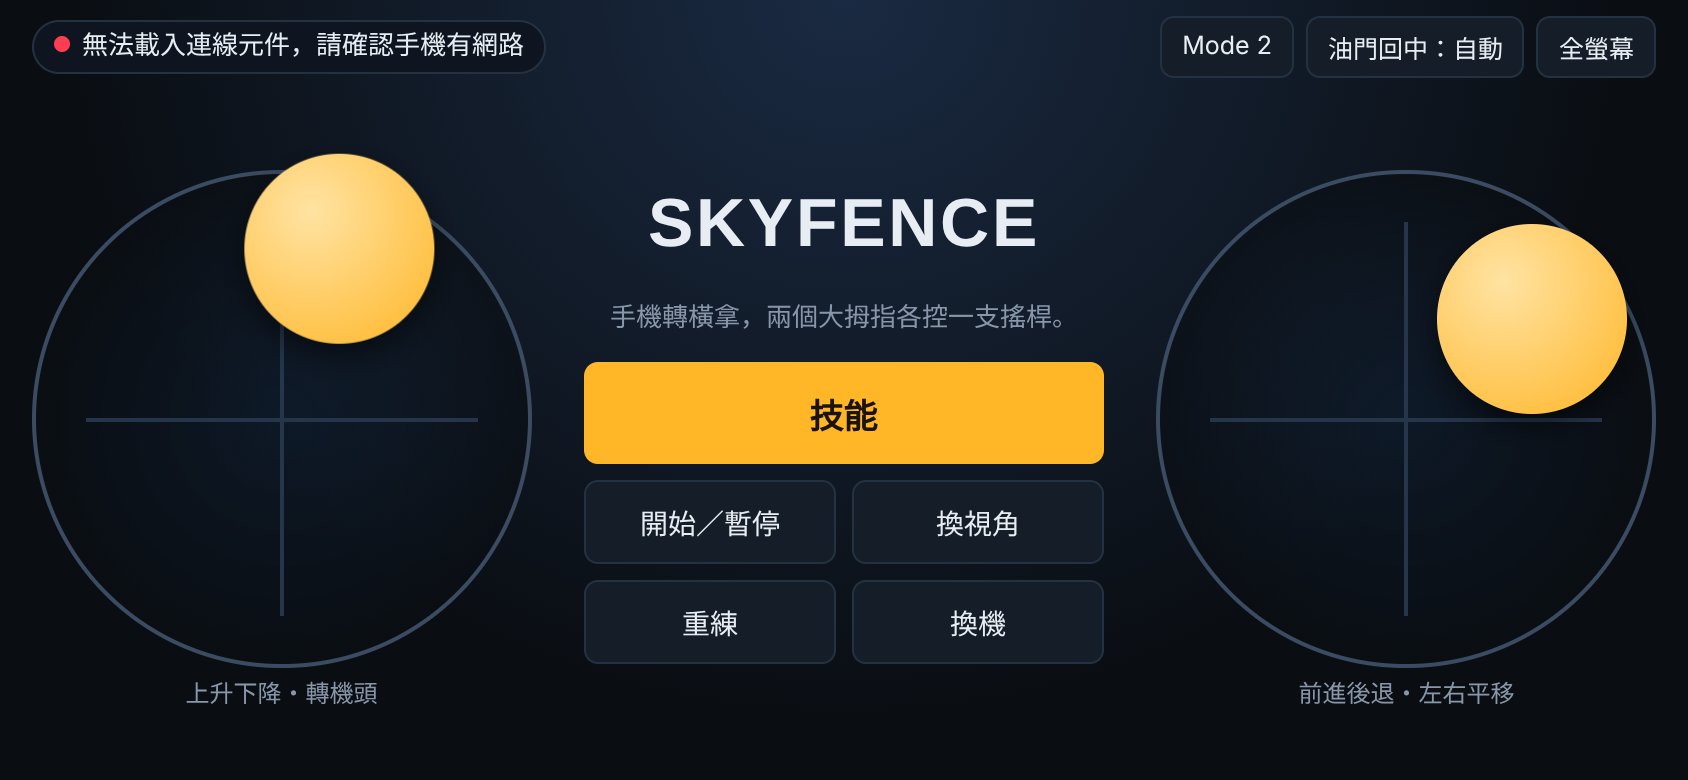
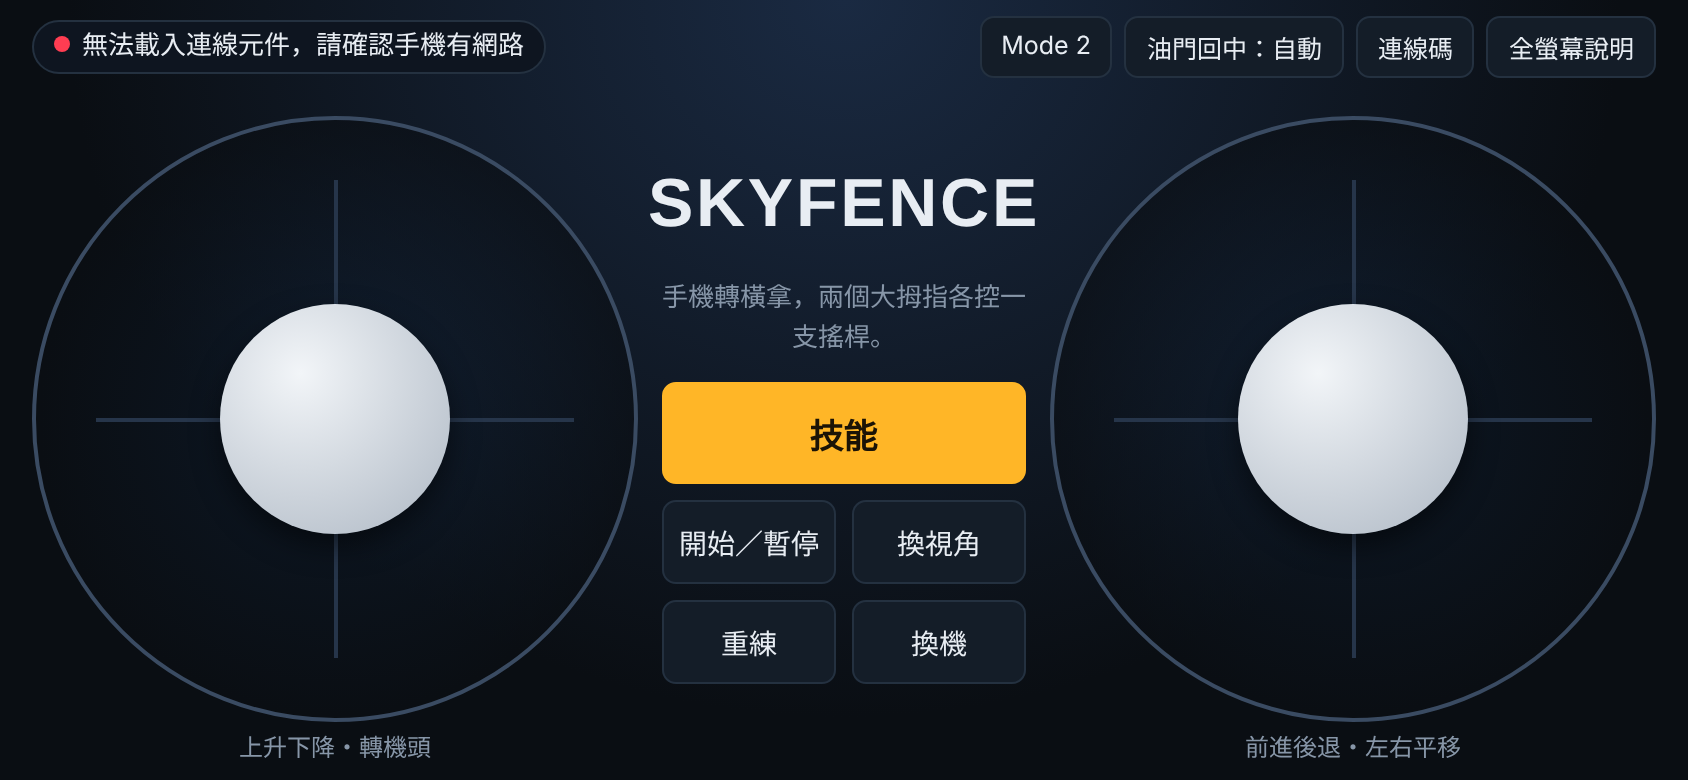
Phone pad: fix reconnect loop, home-screen web app for fullscreen, fit sticks to visible area
Claude-Session: https://claude.ai/code/session_011EXM6eb5eKn6DiTazJdWiT

diff --git a/index.html b/index.html
@@ -8,7 +8,28 @@
 <link rel="preconnect" href="https://fonts.googleapis.com">
 <link rel="preconnect" href="https://fonts.gstatic.com" crossorigin>
 <link rel="stylesheet" href="https://fonts.googleapis.com/css2?family=Saira+Condensed:wght@500;700;800&family=Noto+Sans+TC:wght@400;500;700&family=JetBrains+Mono:wght@500&display=swap">
-<script>if (/[?&]pad=/.test(location.search)) { document.documentElement.classList.add('padmode'); window.__PADMODE = true; }</script>
+<script>
+(function () {
+  var standalone = window.navigator.standalone === true || (window.matchMedia && matchMedia('(display-mode: standalone), (display-mode: fullscreen)').matches);
+  var q = location.search;
+  // a home-screen launch of the controller may arrive without ?pad, so remember that this install is the pad
+  try { if (/[?&]pad=/.test(q)) localStorage.setItem('sfpad-isPad', '1'); } catch (e) {}
+  var isPad = /[?&]pad=/.test(q);
+  try { if (!isPad && standalone && localStorage.getItem('sfpad-isPad') === '1') isPad = true; } catch (e) {}
+  if (!isPad) return;
+  document.documentElement.classList.add('padmode'); window.__PADMODE = true; window.__STANDALONE = standalone;
+  var add = function (tag, attrs) { var el = document.createElement(tag); for (var k in attrs) el.setAttribute(k, attrs[k]); document.head.appendChild(el); };
+  add('meta', { name:'apple-mobile-web-app-capable', content:'yes' });
+  add('meta', { name:'mobile-web-app-capable', content:'yes' });
+  add('meta', { name:'apple-mobile-web-app-status-bar-style', content:'black-translucent' });
+  add('meta', { name:'apple-mobile-web-app-title', content:'Skyfence 遙控' });
+  add('meta', { name:'theme-color', content:'#0a0e13' });
+  if (/^https?:$/.test(location.protocol)) {
+    add('link', { rel:'apple-touch-icon', href:'art/pad-icon-180.png' });
+    add('link', { rel:'manifest', href:'pad.webmanifest' });
+  }
+})();
+</script>
 <style>
 /* Layout: full-bleed 3D arena; HUD pinned to the four corners like a broadcast overlay; setup is a two-column sheet laid over the dimmed arena. */
 :root{
@@ -312,7 +333,7 @@ details li{margin-bottom:4px}
 .pr-phone{background:none;border:1px dashed #4a5d77;color:#c3cdd9;font-size:13px;padding:6px 12px}
 
 /* ---------- phone pad (controller page) ---------- */
-html.padmode,html.padmode body{height:100%;overflow:hidden;overscroll-behavior:none}
+html.padmode,html.padmode body{height:100%;height:100dvh;overflow:hidden;overscroll-behavior:none;position:fixed;inset:0;width:100%}
 html.padmode body > *:not(#pad):not(script){display:none!important}
 #pad{position:fixed;inset:0;display:grid;grid-template-rows:auto minmax(0,1fr);background:radial-gradient(ellipse at 50% 0%,#1a2a42,#0a0e13 65%);color:var(--text);
   touch-action:none;user-select:none;-webkit-user-select:none;-webkit-touch-callout:none;
@@ -332,7 +353,7 @@ html.padmode body > *:not(#pad):not(script){display:none!important}
 .pd-btns button{padding:10px 6px;font-size:14px;touch-action:none}
 .pd-btns button.big{grid-column:1/-1;background:var(--amber);border-color:var(--amber);color:#1b1306;font-weight:800;font-size:17px;padding:12px}
 .pd-btns button.hit{transform:scale(.95);filter:brightness(1.3)}
-.stick{position:relative;width:min(40vw,64vh);aspect-ratio:1;touch-action:none}
+.stick{position:relative;width:var(--stick,min(40vw,60dvh));height:var(--stick,min(40vw,60dvh));touch-action:none}
 #stL{grid-area:L} #stR{grid-area:R}
 .stick .ring{position:absolute;inset:0;border-radius:50%;border:2px solid #3a4b62;background:radial-gradient(circle,rgba(46,139,255,.08),rgba(10,14,19,.6) 70%)}
 .stick .ring::before,.stick .ring::after{content:"";position:absolute;background:#26354a}
@@ -341,12 +362,20 @@ html.padmode body > *:not(#pad):not(script){display:none!important}
 .stick .knob{position:absolute;left:50%;top:50%;width:38%;height:38%;margin:-19% 0 0 -19%;border-radius:50%;background:radial-gradient(circle at 35% 30%,#f2f5f8,#aeb8c4);box-shadow:0 6px 14px rgba(0,0,0,.5);will-change:transform}
 .stick.on .knob{background:radial-gradient(circle at 35% 30%,#ffe3a3,#ffb627)}
 .stick .lab{position:absolute;left:0;right:0;bottom:-22px;text-align:center;font-size:12px;color:var(--muted);white-space:nowrap}
+.pd-tip{position:fixed;left:50%;bottom:max(12px,env(safe-area-inset-bottom,0px));transform:translateX(-50%);z-index:3;width:min(560px,calc(100% - 32px));background:#141f2e;border:1px solid var(--amber);border-radius:12px;padding:10px 12px;display:flex;gap:10px;align-items:flex-start;font-size:13.5px;line-height:1.5;box-shadow:0 10px 30px rgba(0,0,0,.6)}
+.pd-tip b{color:var(--amber)}
+.pd-tip button{flex:none;padding:3px 10px;font-size:13px}
 .pd-code{position:fixed;inset:0;display:grid;place-items:center;background:#0a0e13;padding:24px}
 .pd-code > div{display:flex;flex-direction:column;gap:12px;align-items:center;text-align:center;max-width:340px}
 .pd-code input{font-family:var(--f-mono);font-size:32px;letter-spacing:.2em;text-align:center;width:9ch;padding:6px;border-radius:8px;border:1px solid var(--line);background:#0e1520;color:var(--text)}
+@media (max-height:360px) and (orientation:landscape){
+  .pd-msg{display:none} .pd-info{font-size:20px}
+  .pd-mid{gap:6px} .pd-btns{gap:5px} .pd-btns button{padding:6px 4px;font-size:13px} .pd-btns button.big{padding:8px;font-size:15px}
+  .pd-top{gap:6px} .pd-tools button{padding:3px 8px;font-size:12px}
+}
 @media (orientation:portrait){
   .pd-main{grid-template-columns:1fr 1fr;grid-template-areas:"M M" "L R";align-content:space-evenly}
-  .stick{width:min(42vw,40vh);justify-self:center}
+  .stick{justify-self:center}
 }
 #err{position:fixed;inset:auto 16px 16px;color:#ffd27a}
 </style>
@@ -561,6 +590,7 @@ html.padmode body > *:not(#pad):not(script){display:none!important}
     <div class="pd-tools">
       <button id="pdMode" type="button">Mode 2</button>
       <button id="pdSpring" type="button">油門回中：自動</button>
+      <button id="pdCodeBtn" type="button">連線碼</button>
       <button id="pdFull" type="button">全螢幕</button>
     </div>
   </div>
@@ -579,6 +609,7 @@ html.padmode body > *:not(#pad):not(script){display:none!important}
     </div>
     <div class="stick" id="stR"><div class="ring"></div><div class="knob"></div><span class="lab" id="labR"></span></div>
   </div>
+  <div class="pd-tip" id="pdTip" hidden><div id="pdTipText"></div><button type="button" id="pdTipX">知道了</button></div>
   <div class="pd-code" id="pdCode" hidden><div>
     <div class="brand" style="font-size:40px">SKY<span>FENCE</span></div>
     <div>輸入電腦畫面上的 6 位數連線碼</div>
@@ -2737,6 +2768,7 @@ window.SFLINK = {
   const ST = { L:{ x:0, y:0, id:null }, R:{ x:0, y:0, id:null } };
   const counts = { skill:0, start:0, cam:0, retry:0, swap:0 };
   let peer = null, conn = null, code = (new URLSearchParams(location.search).get('pad') || '').replace(/\D/g, '').slice(0, 6);
+  if (!code) code = store.get('code', '');   // home-screen launch: reuse the last code
   let retryT = 0, seq = 0;
 
   const springOn = () => spring === 'on' || (spring === 'auto' && hostFlight === 'assist');
@@ -2765,17 +2797,38 @@ window.SFLINK = {
     el.addEventListener('pointerup', end); el.addEventListener('pointercancel', end); el.addEventListener('lostpointercapture', end);
     s.upd = upd; upd();
   }
+  // size both sticks to the space the browser actually leaves us (Safari bars, notches)
+  function fit() {
+    const main = document.querySelector('.pd-main'); if (!main) return;
+    const vw = window.visualViewport ? visualViewport.width : innerWidth, portrait = innerHeight > innerWidth;
+    const h = main.clientHeight - 26;
+    const size = portrait ? Math.min(vw * 0.42, h * 0.5) : Math.min(vw * 0.36, h);
+    pad.style.setProperty('--stick', Math.max(110, Math.floor(size)) + 'px');
+    ST.L.upd && ST.L.upd(); ST.R.upd && ST.R.upd();
+  }
   bindStick('L'); bindStick('R');
-  addEventListener('resize', () => { ST.L.upd(); ST.R.upd(); });
+  addEventListener('resize', fit); addEventListener('orientationchange', () => setTimeout(fit, 300));
+  if (window.visualViewport) visualViewport.addEventListener('resize', fit);
+  fit(); setTimeout(fit, 400);
   document.querySelectorAll('.pd-btns button').forEach(b => {
     b.addEventListener('pointerdown', e => { e.preventDefault(); counts[b.dataset.b]++; b.classList.add('hit'); setTimeout(() => b.classList.remove('hit'), 120); if (navigator.vibrate) navigator.vibrate(12); wake(); });
   });
   $('#pdMode').addEventListener('click', () => { mode = mode === '2' ? '1' : '2'; store.set('mode', mode); ST.L.y = ST.R.y = 0; ST.L.upd(); ST.R.upd(); labels(); });
   $('#pdSpring').addEventListener('click', () => { spring = spring === 'auto' ? 'on' : spring === 'on' ? 'off' : 'auto'; store.set('spring', spring); labels(); });
+  const isIOS = /iPhone|iPad|iPod/.test(navigator.userAgent) || (navigator.platform === 'MacIntel' && navigator.maxTouchPoints > 1);
+  const canFS = !!(document.documentElement.requestFullscreen || document.documentElement.webkitRequestFullscreen) && !isIOS;
+  function tip(html) { $('#pdTipText').innerHTML = html; $('#pdTip').hidden = false; }
+  const IOS_TIP = '<b>iPhone 要全螢幕：</b>點 Safari 的<b>分享</b>按鈕 → <b>加入主畫面</b>（打開「以網頁 App 開啟」），之後從主畫面的「Skyfence 遙控」圖示開啟，就沒有網址列，也會記住連線碼。';
+  $('#pdTipX').addEventListener('click', () => { $('#pdTip').hidden = true; store.set('tipSeen', '1'); setTimeout(fit, 50); });
+  if (window.__STANDALONE) $('#pdFull').hidden = true;
+  else if (isIOS) { $('#pdFull').textContent = '全螢幕說明'; if (store.get('tipSeen', '') !== '1') tip(IOS_TIP); }
   $('#pdFull').addEventListener('click', async () => {
-    try { await document.documentElement.requestFullscreen(); } catch (e) {}
+    if (!canFS) { tip(IOS_TIP); return; }
+    try { await (document.documentElement.requestFullscreen ? document.documentElement.requestFullscreen({ navigationUI:'hide' }) : document.documentElement.webkitRequestFullscreen()); } catch (e) {}
     try { await screen.orientation.lock('landscape'); } catch (e) {}
+    setTimeout(fit, 300);
   });
+  $('#pdCodeBtn').addEventListener('click', () => { $('#pdIn').value = code; $('#pdCode').hidden = false; $('#pdIn').focus(); });
   let wl = null;
   async function wake() { if (wl || !navigator.wakeLock) return; try { wl = await navigator.wakeLock.request('screen'); wl.addEventListener('release', () => wl = null); } catch (e) {} }
   labels();
@@ -2795,10 +2848,12 @@ window.SFLINK = {
       navigator.vibrate(m.k === 'good' ? [30, 40, 60] : m.k === 'bad' ? 200 : 25);
     }
   }
+  function retry(ms) { clearTimeout(retryT); retryT = setTimeout(connect, ms); }
   function connect() {
     clearTimeout(retryT);
     if (!/^\d{6}$/.test(code)) { $('#pdCode').hidden = false; status('尚未連線', 'bad'); return; }
     $('#pdCode').hidden = true;
+    if (conn && conn.open) return;
     status('連線中…（' + code + '）');
     SFLINK.loadPeer().then(() => {
       if (!peer || peer.destroyed) {
@@ -2806,30 +2861,37 @@ window.SFLINK = {
         peer.on('error', e => {
           if (e.type === 'peer-unavailable') status('找不到電腦：確認連線碼，或電腦網頁是否開著', 'bad');
           else status('連線失敗：' + (e.type || e.message || e), 'bad');
-          retryT = setTimeout(connect, 3000);
+          retry(3000);
         });
         peer.on('disconnected', () => { try { peer.reconnect(); } catch (_) {} });
       }
       const go = () => {
-        if (conn) { try { conn.close(); } catch (_) {} }
-        conn = peer.connect(SFLINK.PREFIX + code, { reliable:false, serialization:'json' });
-        conn.on('open', () => { status('已連線 ' + code, 'ok'); conn.send({ t:'hi', ua:navigator.userAgent.slice(0, 60) }); });
-        conn.on('data', onData);
-        conn.on('close', () => { status('連線中斷，重新連線…', 'bad'); retryT = setTimeout(connect, 2000); });
-        conn.on('error', () => {});
+        const old = conn; conn = null;
+        if (old) { old.removeAllListeners && old.removeAllListeners(); try { old.close(); } catch (_) {} }
+        const c = peer.connect(SFLINK.PREFIX + code, { reliable:false, serialization:'json' });
+        conn = c;
+        const guard = setTimeout(() => { if (conn === c && !c.open) { status('連線逾時，重試中…', 'bad'); retry(500); } }, 9000);
+        c.on('open', () => { if (conn !== c) return; clearTimeout(guard); store.set('code', code); status('已連線 ' + code, 'ok'); c.send({ t:'hi', ua:navigator.userAgent.slice(0, 60) }); });
+        c.on('data', d => { if (conn === c) onData(d); });
+        c.on('close', () => { if (conn !== c) return; clearTimeout(guard); status('連線中斷，重新連線…', 'bad'); retry(1500); });
+        c.on('error', () => {});
       };
       if (peer.open) go(); else peer.once('open', go);
-    }).catch(err => { status('無法載入連線元件，請確認手機有網路', 'bad'); retryT = setTimeout(connect, 4000); });
+    }).catch(err => { status('無法載入連線元件，請確認手機有網路', 'bad'); retry(4000); });
   }
   setInterval(() => {
     if (conn && conn.open) { try { conn.send({ t:'s', q:++seq, c:channels().map(v => Math.round(v * 1000) / 1000), n:counts }); } catch (_) {} }
   }, 33);
   $('#pdGo').addEventListener('click', () => {
     code = $('#pdIn').value.replace(/\D/g, '').slice(0, 6);
-    if (code.length === 6) { history.replaceState(null, '', location.pathname + '?pad=' + code); connect(); }
+    if (code.length === 6) {
+      history.replaceState(null, '', location.pathname + '?pad=' + code);
+      if (conn) { const old = conn; conn = null; old.removeAllListeners && old.removeAllListeners(); try { old.close(); } catch (_) {} }
+      connect();
+    }
   });
   $('#pdIn').addEventListener('keydown', e => { if (e.key === 'Enter') $('#pdGo').click(); });
-  document.addEventListener('visibilitychange', () => { if (!document.hidden && (!conn || !conn.open)) connect(); });
+  document.addEventListener('visibilitychange', () => { if (!document.hidden) { fit(); if (!conn || !conn.open) connect(); } });
   connect();
 })();
 </script>

diff --git a/README.md b/README.md
@@ -35,6 +35,7 @@ https://<你的帳號>.github.io/<儲存庫名稱>/
 
 - 連線使用 WebRTC（[PeerJS](https://peerjs.com/) 免費連線服務），手機與電腦都需要能上網，連同一個 Wi-Fi 最穩定。
 - 手機訊號中斷超過 0.6 秒，球機會自動放開搖桿。
+- **全螢幕**：Android 按「全螢幕」即可。iPhone 的 Safari 不支援網頁全螢幕，請按 Safari「分享」→「加入主畫面」，之後從主畫面的「Skyfence 遙控」圖示開啟，就沒有網址列，也會記住連線碼（電腦的連線碼固定不變，除非按「換一組連線碼」）。
 - 「油門回中」預設自動：定高輔助模式下放開就回中；手動油門模式下油門桿會停在原位，像真的遙控器。
 
 ![手機遙控器](art/phone-pad.png)
